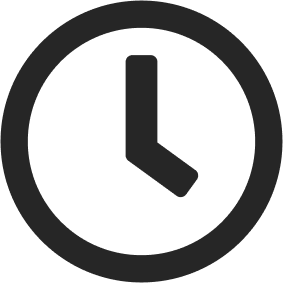
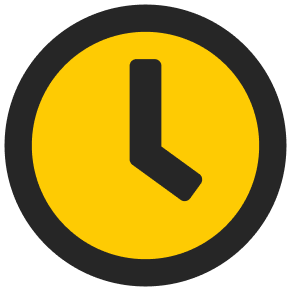
modified project with correct images

diff --git a/style.css b/style.css
@@ -10,8 +10,11 @@ body {
     width: 500px;
     height: 30px;
     background-color: #262626;
-    ;
+    border:none;
+    border-radius: 5px;
+    padding-left:15px;
 }
+
 
 .first-section{
     /* border: 1px solid grey; */
@@ -44,7 +47,8 @@ body {
     border-radius: 5px;
     padding:10px 20px;
     background-color: #262626;
-    ;
+    border:none;
+    
   }
 
 
@@ -53,53 +57,63 @@ body {
     /* border: 1px solid grey; */
     border-radius: 10px; 
     margin:20px;
+    background-color: #262626;
+    padding-top:30px;
+    padding-bottom:30px;
+    margin-left:60px;
+    margin-right:60px;
 }
 
 .about-us {
     display: flex;
     justify-content: space-between;
     margin:20px;
+    background-color: #262626;
   }
 
 .left-section{
     display: flex;
     flex-direction: column;
     align-items: start;
+    background-color: #262626;
+    
 }
 .right-section{
     display: flex;
     flex-direction: column;
     align-items: center;
+    background-color: #262626;
+    padding-right:40px;
 }
-  
- .about-us img{
-    background-color: yellow;
-    padding:23px;
-    border-radius:35px;
- }
+  .about-us img{
+    background-color: #262626;
+  }
  .about-us div{
         display: flex;
         align-items: center;
         justify-content: space-around;
         margin:20px;
+        background-color: #262626;
+ }
+ .second-section h1{
+  background-color: #262626;
+  margin-left:40px;
  }
 
  h1{
     margin-left: 20px;
+    
  }
 
- #clock {
-    padding:0;
-    border-radius:150px;
- }
+
 
  .about-us button{
-    background-color: yellow;
+    background-color:  #FECB03;
     color:black;
-    border-radius: 20px;
-    padding:10px;
-    width: 125px;
-    height: 60px;
+    border-radius: 25px;
+    padding:20px;
+    font-size: 24px;
+    border:none;
  }
 
 
@@ -116,6 +130,10 @@ body {
     flex:25%;
 
   }
+  #category-h1{
+    margin-top: 90px;
+    margin-bottom: 60px;
+  }
   .category .item{
     border: 1px solid grey;
     border-radius: 10px; 
@@ -123,12 +141,12 @@ body {
     margin:20px;
   }
   .category button{
-    background-color: yellow;
+    background-color:  #FECB03;
     color:black;
     border-radius: 20px;
-    padding:10px;
-    width: 100px;
-    height: 50px;
+    padding:15px;
+    font-size: 22px;
+    border:none;
   }
  /* footer */
 .footer{

diff --git a/index.html b/index.html
@@ -55,7 +55,7 @@
   </div>
 
   <!-- Our Categories -->
-  <h1>Our Categories</h1>
+  <h1 id="category-h1">Our Categories</h1>
   <div class="category">
       
       <div class="item electronic">
